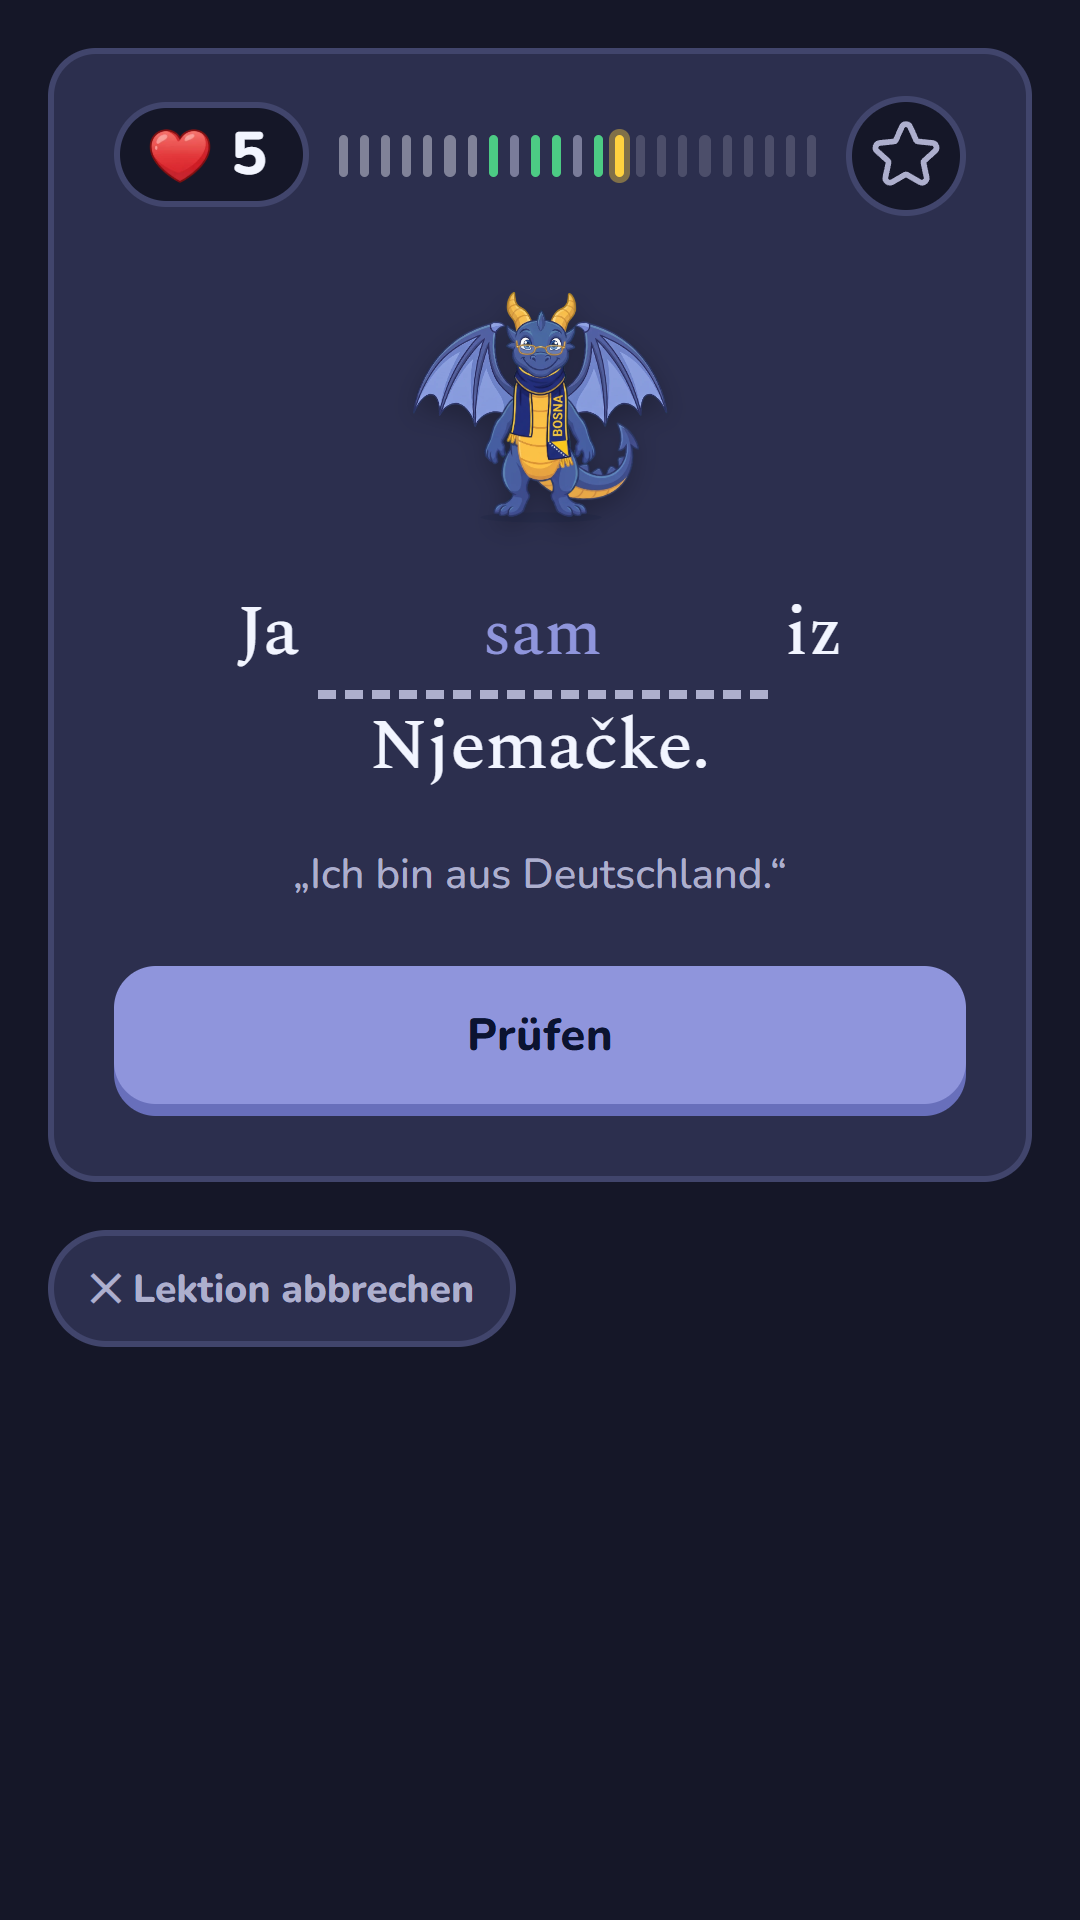
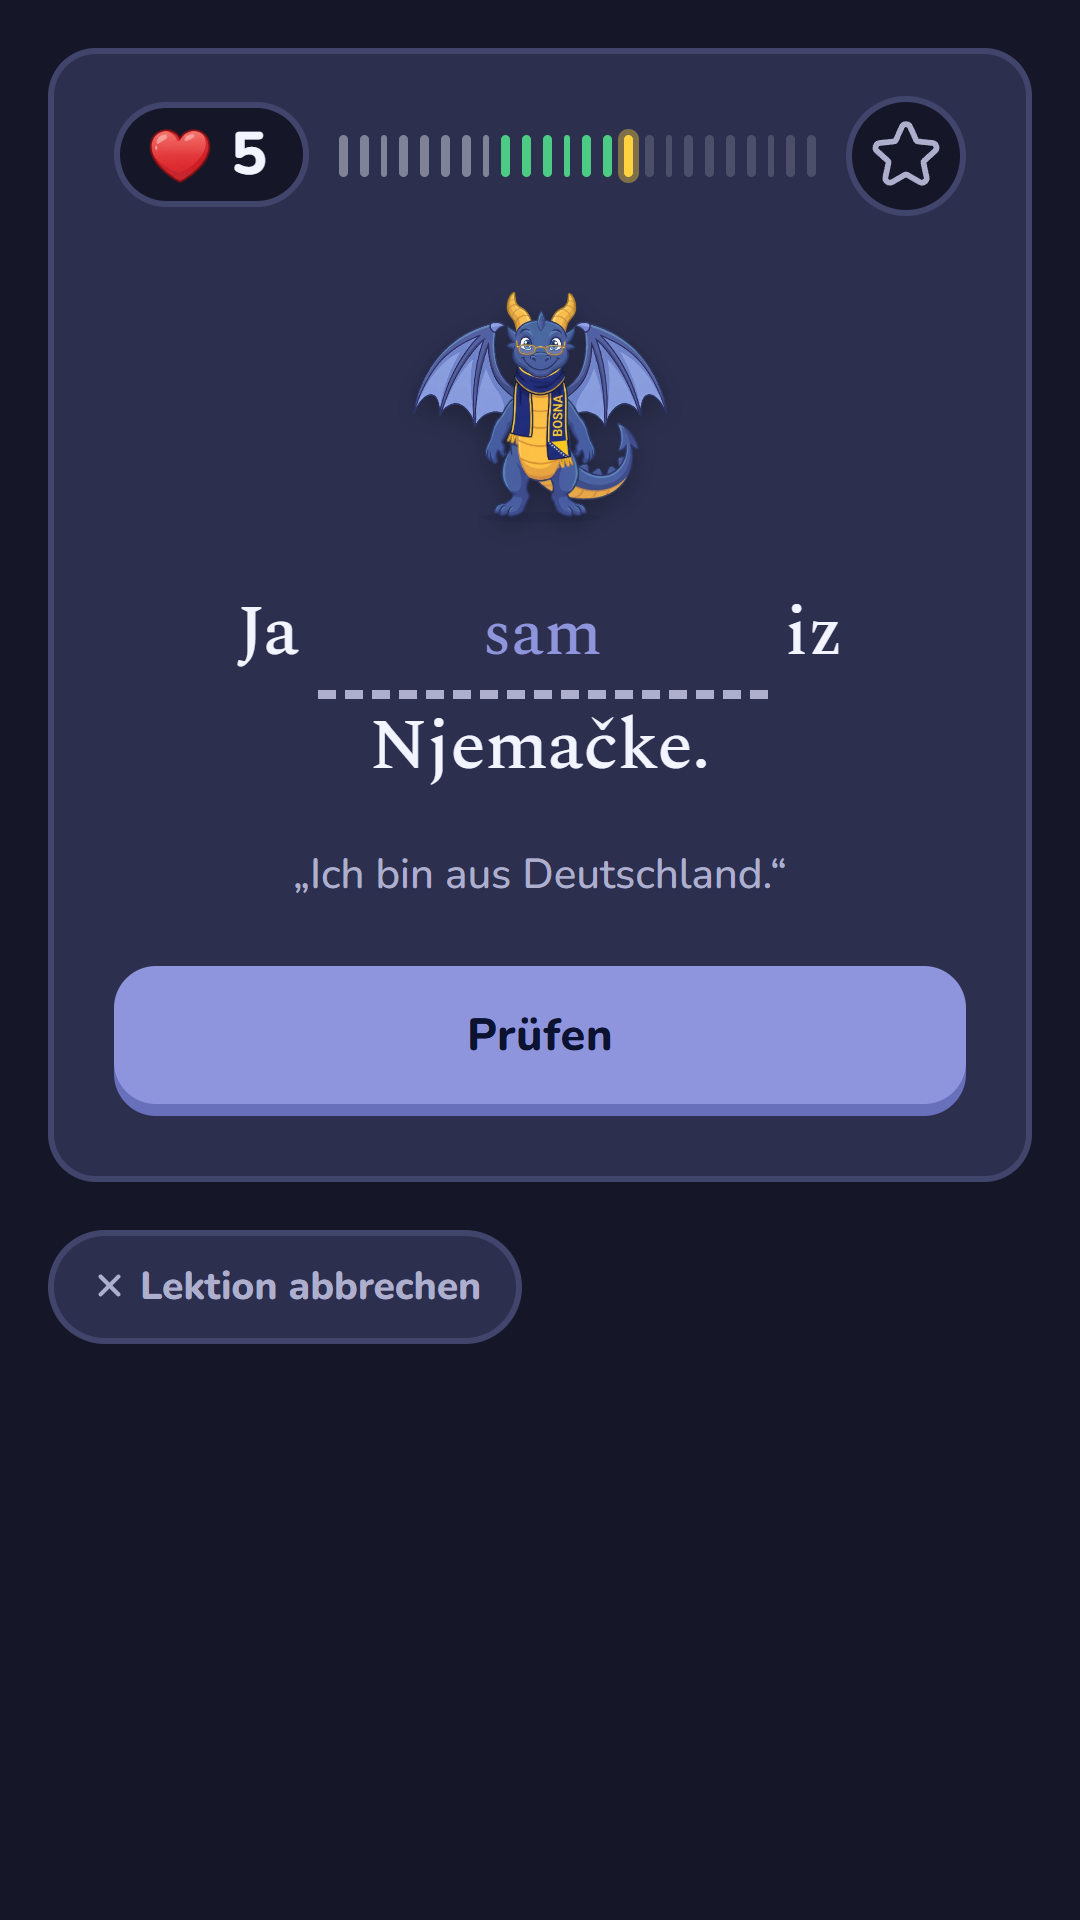
Store-Bilder 1.4: Bild 2 zeigt das Amt unter den Stufen-Reitern, kein Abzeichen-Hinweis auf Bild 1 (Offen-Liste 8)
Der ganze Satz Store-Bilder neu aus 1.4 (8 Sprachen, Handy, 7 und 10 Zoll,
dunkel, --version 1.4), abgelegt in Release\Store_Bilder_1.4, nicht
hochgeladen. Die Bilder aus 1.3 waren nie im Store.

- Bild 2: oben die Reiterleiste A1 bis C1 mit B1, direkt darunter "Amt &
  Verträge" aufgeklappt. Im Vorführstand ist B1 zu, und über dem Amt stand
  groß "B1 ist noch zu - Schließ erst A2 ab". Für dieses Bild gelten A1 und
  A2 darum als geschafft (nur im Speicher der Seite), Bild 3 stellt den
  Stand wieder her. Das Skript bricht ab, wenn das Amt nicht direkt unter
  der Leiste steht.
- Bild 1: Ohne Merker meldete die App gut vier Sekunden nach dem Start "Du
  hast schon 5 Abzeichen" - je nach Rechner noch im Bild. Der Vorführstand
  markiert jetzt alle Abzeichen als gesehen (Kennungen aus ERFOLGE), die App
  bleibt, wie sie ist. Nach jedem Schritt prüft das Skript, dass weder ein
  roter Punkt am Profilknopf noch eine Meldung im Bild steht.
- store/screenshots: die deutschen Rohbilder aus diesem Lauf (die alten aus
  1.3 liegen in Release\Store_Bilder_1.4\_alt_repo_screenshots_1.3).
  store/feature-1024x500.png neu gerechnet war Byte für Byte gleich und
  bleibt.
- Neue Tests: alle Abzeichen unter dem Schlüssel der App, Bild 2 öffnet B1
  nur für sich, und was es aus der App braucht, gibt es dort.

Changed region(s): [[0.0917, 0.625, 0.4889, 0.6875], [0.3667, 0.0625, 0.7028, 0.0938]]

diff --git a/store/bilder_machen/bilder_playwright.py b/store/bilder_machen/bilder_playwright.py
@@ -42,6 +42,19 @@ WEB = os.path.join(WURZEL, "web")
 # Wie in app_bauen.py (version_einsetzen), siehe --version
 VERSIONSNAME_FORM = re.compile(r"([1-9][0-9]*)\.(0|[1-9][0-9]*)")
 APP_VERSION_ZEILE = re.compile(r"^const APP_VERSION = '[^'\r\n]*';", re.M)
+# Die Abzeichen der App (seit 1.4) und wo sie sich merkt, was schon angesehen
+# wurde (ERFOLG_GESEHEN in web/index.html), siehe erfolge_ids()
+ERFOLGE_LISTE = re.compile(r"^const ERFOLGE = \[(.*?)^\];", re.M | re.S)
+ERFOLG_GESEHEN = "zmaj_erfolge_gesehen"
+
+# Nach jedem Schritt, vor dem Bild: nichts davon darf im Bild stehen.
+NICHTS_IM_BILD = """
+    const sichtbar = e => !!e && e.getClientRects().length > 0;
+    const p = document.getElementById('btnProfil');
+    if(sichtbar(p) && p.classList.contains('neu')) return 'roter Punkt am Profilknopf';
+    const k = document.querySelector('.kurznote');
+    if(sichtbar(k)) return 'Meldung im Bild: ' + k.textContent;
+    return ''"""
 
 # Bildschirm in CSS-Punkten und Pixeldichte. "handy" ist das Store-Format
 # selbst (so breit wie Ajdins S21). Die Tablets haben die üblichen Android-
@@ -69,6 +82,16 @@ SCHRITTE = [
     # Vorfuehrstand gesperrt - so sieht es in der App wirklich aus. Seit den
     # Stufen-Reitern (1.4) ist es Sektion 1 im Reiter B1; 03 geht darum zuerst
     # zurueck in den Reiter von Weitermachen und klappt dort Sektion 1 auf.
+    # 16.11.2026 (Store-Bilder 1.4): oben steht die Reiterleiste A1 bis C1 mit
+    # dem gewaehlten B1, direkt darunter die Sektion. Mit dem Kopf der Sektion
+    # ganz oben war die Leiste aus dem Bild gerutscht, und man sah nicht, in
+    # welcher Stufe das Amt liegt. Und: Im Vorfuehrstand ist B1 noch zu. Ueber
+    # den Sektionen stand dann gross die Karte "B1 ist noch zu - Schliess erst
+    # A2 ab" (reiterKarteZeichnen), das Amt rutschte halb aus dem Bild, und im
+    # Store las es sich wie eine Sperre. Fuer dieses Bild gelten A1 und A2
+    # darum als geschafft - so sieht es fuer jemanden aus, der bis B1 gekommen
+    # ist: A1 und A2 "fertig", B1 offen, das erste Level "Jetzt dran". Nur im
+    # Speicher der Seite; 03 stellt den Stand wieder her.
     ("02-amt", """
         // Seit den Stufen-Reitern (v14-reiter, 13.11.2026) steht Amt & Vertraege
         // als Sektion 1 im Reiter B1, nicht mehr an Stelle 9 der ganzen Liste:
@@ -76,14 +99,27 @@ SCHRITTE = [
         // ihre Kennung suchen und vorher ihren Reiter waehlen.
         const amt = 'amt';
         if(!SECTIONS.some(s => s.id === amt)) throw new Error('keine Sektion amt');
+        if(typeof reiterLevel === 'function'){
+          const st = stufeVon(CATEGORIES.findIndex(c => c.sektion === amt));
+          window.__bestandenVorher = new Set(passed);
+          STUFEN.slice(0, STUFEN.indexOf(st)).forEach(s => reiterLevel(s).forEach(i => passed.add(CATEGORIES[i].id)));
+        }
         if(typeof stufeWaehlen === 'function') stufeWaehlen(stufeVon(CATEGORIES.findIndex(c => c.sektion === amt)));
         await new Promise(r=>setTimeout(r,300));
         if(offeneSektion !== amt) sektionAufklappen(amt);
         await new Promise(r=>setTimeout(r,900));
         const k = [...document.getElementById('sections').children].find(e => e.dataset.sid === amt);
-        scrollBy(0, (k.getBoundingClientRect().top - 10) * rectFaktor());
-        await new Promise(r=>setTimeout(r,600)); return k.innerText.split('\\n')[0]"""),
+        const leiste = document.getElementById('reiterLeiste');
+        const oben = (leiste && leiste.getClientRects().length) ? leiste : k;
+        if(oben === leiste && k.getBoundingClientRect().top - leiste.getBoundingClientRect().bottom > 40)
+          throw new Error('Amt steht nicht direkt unter der Reiterleiste (Karte "noch zu"?)');
+        scrollBy(0, (oben.getBoundingClientRect().top - 10) * rectFaktor());
+        await new Promise(r=>setTimeout(r,600));
+        const reiter = leiste ? leiste.querySelector('[aria-selected="true"]') : null;
+        return (reiter ? reiter.dataset.stufe + ' | ' : '') + k.innerText.split('\\n')[0]"""),
     ("03-neues-wort", """
+        // Den Vorfuehrstand aus 02 zurueck (A1 und A2 wieder offen)
+        if(window.__bestandenVorher){ passed = window.__bestandenVorher; delete window.__bestandenVorher; }
         // Zurueck in den Reiter von Weitermachen (A1), dort Sektion 1 auf
         if(typeof stufeWaehlen === 'function') stufeWaehlen(stufeVon(firstOpen()));
         const eins = SECTIONS[0].id;
@@ -196,6 +232,22 @@ def lernstand():
     return json.dumps(s, ensure_ascii=False)
 
 
+def erfolge_ids():
+    """Die Kennungen aller Abzeichen aus web/index.html (ERFOLGE), [] ohne.
+
+    Seit 1.4 hat die App Abzeichen. Was auf dem Geraet schon angesehen
+    wurde, steht nicht im Lernstand, sondern unter ERFOLG_GESEHEN. Fehlt der
+    Eintrag, nimmt die App den ersten Start nach dem Update an und meldet
+    gut vier Sekunden nach dem Start "Du hast schon 5 Abzeichen" - die
+    Meldung stand je nach Rechner noch auf Bild 1 (Probe 16.11.2026). Ein
+    neues Abzeichen truege ausserdem den roten Punkt am Profilknopf. Darum
+    gelten fuer die Bilder alle Abzeichen als gesehen; die App bleibt, wie
+    sie ist."""
+    with open(os.path.join(WEB, "index.html"), encoding="utf-8") as f:
+        m = ERFOLGE_LISTE.search(f.read())
+    return re.findall(r"\{\s*id:\s*'([^']+)'", m.group(1)) if m else []
+
+
 def server_starten():
     """web/ auf einem freien Port, im Hintergrund, ohne Ausgabe."""
     class Leise(http.server.SimpleHTTPRequestHandler):
@@ -253,8 +305,10 @@ def bilder_machen(sprache, ziel, chrome=None, geraet="handy", aussehen=None, ver
             seite.goto(basis + "/leer")
             js("localStorage.clear(); localStorage.setItem('zmaj_stand', %s); "
                "localStorage.setItem('zmaj_einwilligung', JSON.stringify({wahl:'nein',stand:1,zeit:new Date().toISOString()})); "
-               "localStorage.setItem('zmaj_sprache', %s); return 1"
-               % (json.dumps(lernstand()), json.dumps(sprache)))
+               "localStorage.setItem('zmaj_sprache', %s); "
+               "localStorage.setItem(%s, %s); return 1"
+               % (json.dumps(lernstand()), json.dumps(sprache),
+                  json.dumps(ERFOLG_GESEHEN), json.dumps(json.dumps(erfolge_ids()))))
             seite.goto(basis + "/index.html?neu=%d" % time.time())
             seite.wait_for_function("typeof openLevel === 'function' && typeof Lx !== 'undefined'", timeout=30000)
             seite.wait_for_timeout(6000)   # Vorspann und Drache
@@ -263,6 +317,9 @@ def bilder_machen(sprache, ziel, chrome=None, geraet="handy", aussehen=None, ver
                "document.head.append(st); return 1")
             for name, code in SCHRITTE:
                 ergebnis = js(code)
+                stoert = js(NICHTS_IM_BILD)
+                if stoert:
+                    raise SystemExit("%s %s: %s" % (sprache, name, stoert))
                 pfad = os.path.join(ziel, name + ".png")
                 seite.screenshot(path=pfad)
                 pfade.append(pfad)

diff --git a/tests/test_store_bilder.py b/tests/test_store_bilder.py
@@ -8,14 +8,25 @@ Geprüft wird ohne Browser:
     (U+00A0) ist unsichtbar und geht beim Bearbeiten leicht verloren. Ohne
     brach Bild 4 auf Deutsch als „Sätze Wort für / Wort bauen“ um
     (Prüfung 13.11.2026), auf Türkisch „kelime / kelime“.
+  - Store-Bilder 1.4 (16.11.2026): bilder_playwright.py markiert alle
+    Abzeichen als gesehen (sonst „Du hast schon 5 Abzeichen“ auf Bild 1),
+    und Bild 2 öffnet B1 nur für sich - Bild 3 stellt den Stand wieder her.
 """
 import os
+import re
 import sys
 
 WURZEL = os.path.dirname(os.path.dirname(os.path.abspath(__file__)))
 sys.path.insert(0, os.path.join(WURZEL, "store", "bilder_machen"))
 
 import beschriften  # noqa: E402
+
+BP = beschriften.BP
+
+
+def _app():
+    with open(os.path.join(WURZEL, "web", "index.html"), encoding="utf-8") as f:
+        return f.read()
 
 NBSP = " "
 
@@ -32,3 +43,26 @@ def test_bild4_bleibt_zusammen():
     assert de == "Sätze " + NBSP.join(["Wort", "für", "Wort", "bauen"])
     assert de.replace(NBSP, " ") == "Sätze Wort für Wort bauen"   # Wortlaut unverändert
     assert "kelime" + NBSP + "kelime" in beschriften.UEBERSCHRIFTEN["tr"][3]
+
+
+def test_alle_abzeichen_gelten_als_gesehen():
+    """Jedes Abzeichen aus ERFOLGE, unter dem Schlüssel, den die App liest."""
+    app = _app()
+    ids = BP.erfolge_ids()
+    liste = app.split("const ERFOLGE = [", 1)[1].split("];", 1)[0]
+    assert ids and len(ids) == len(set(ids)) == liste.count("{id:")
+    assert "const ERFOLG_GESEHEN = '%s';" % BP.ERFOLG_GESEHEN in app
+
+
+def test_bild2_oeffnet_b1_nur_fuer_sich():
+    schritte = dict(BP.SCHRITTE)
+    assert "window.__bestandenVorher = new Set(passed)" in schritte["02-amt"]
+    assert "passed = window.__bestandenVorher" in schritte["03-neues-wort"]
+    # Was Bild 2 aus der App braucht, gibt es dort unter diesem Namen
+    app = _app()
+    for name in ("STUFEN", "reiterLevel", "stufeVon", "firstOpen"):
+        assert re.search(r"^const %s = " % name, app, re.M), name
+    for name in ("stufeWaehlen", "sektionAufklappen"):
+        assert re.search(r"^function %s\(" % name, app, re.M), name
+    assert re.search(r"^let [^\n]*\bpassed = new Set\(\)", app, re.M)
+    assert 'id="reiterLeiste"' in app and 'id="btnProfil"' in app
